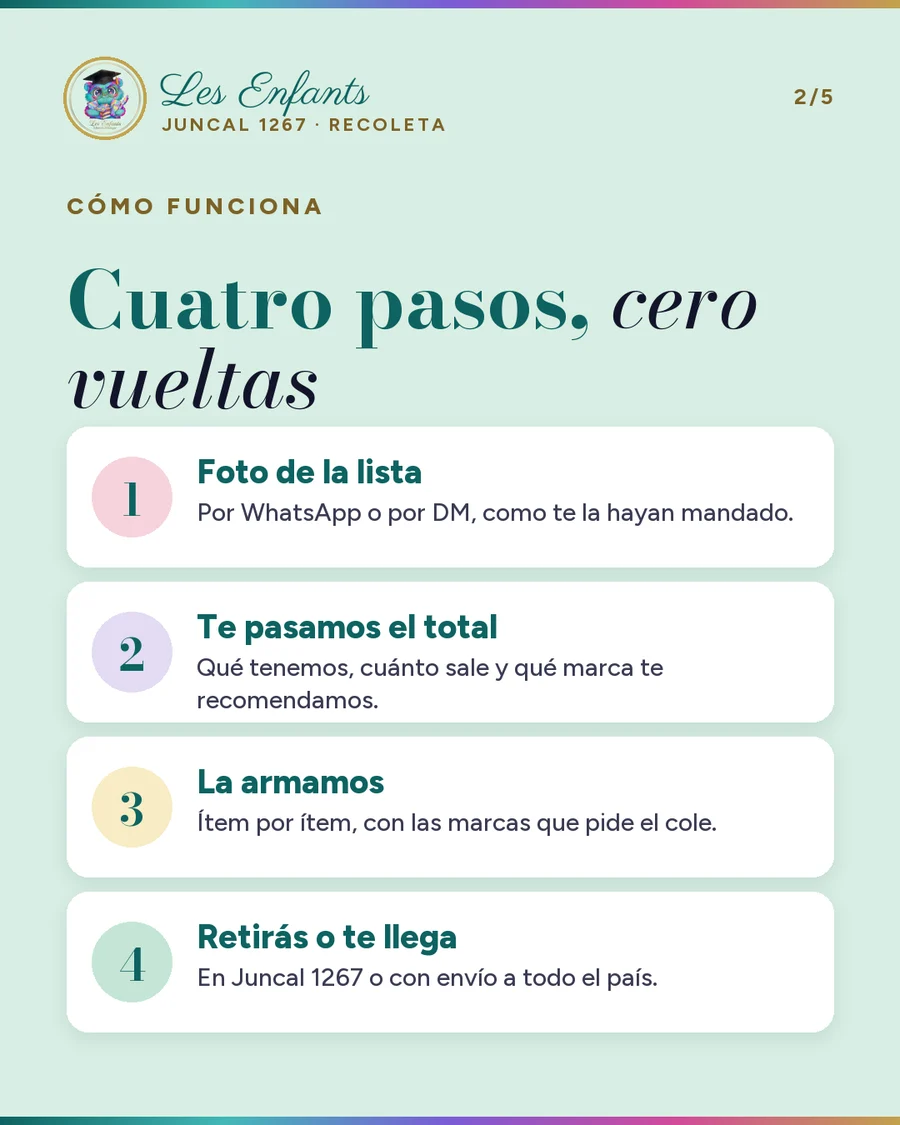
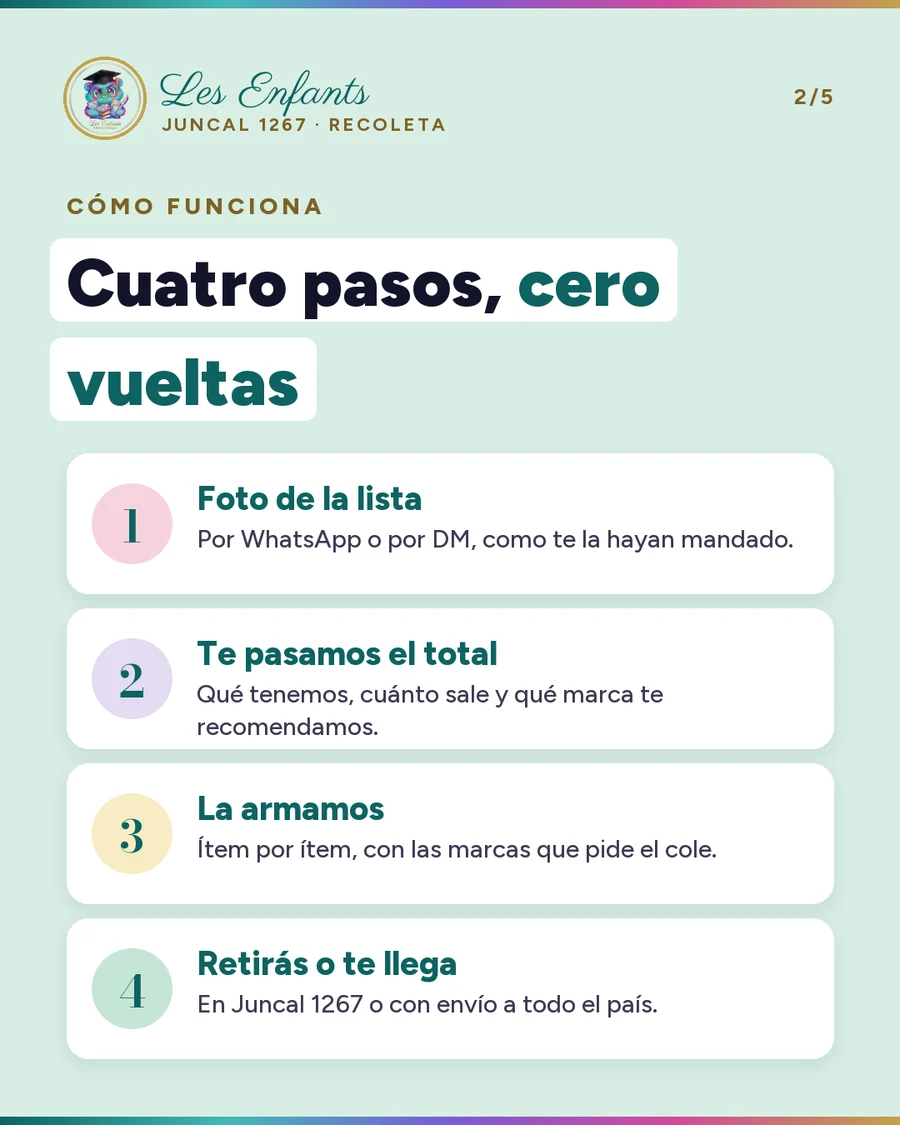
Carruseles nuevos: tapa con foto y título grande, una foto por placa, extra de vacaciones

Changed region(s): [[0.0311, 0.1867, 0.9333, 0.9644]]

diff --git a/index.html b/index.html
@@ -132,7 +132,7 @@ footer p+p{margin-top:8px}
         <p class="eyebrow">Instagram, TikTok y Google · 9 al 22 de noviembre</p>
         <h1>Lo que se publica <em>cada día</em></h1>
         <p class="lead">Así se vería tu cuenta las próximas dos semanas, pieza por pieza, con el texto y lo que hay que grabar. Es una primera versión: <b>nada se publica sin que lo apruebes</b> y todo se puede cambiar.</p>
-        <div class="stats"><span>5 reels</span><span>4 carruseles</span><span>8 historias</span><span>1 en Google</span></div>
+        <div class="stats"><span>5 reels</span><span>4 carruseles + 1 extra</span><span>8 historias</span><span>1 en Google</span></div>
       </div>
       <div class="oct" aria-hidden="true"><span>Alto nivel en planificación</span></div>
     </div>
@@ -191,17 +191,17 @@ Juncal 1267, Recoleta.
 <p class="sticker"><b>En la app:</b> Encuesta: &quot;Sí, ya llegó&quot; / &quot;Todavía no&quot;. A los que contestan &quot;sí&quot; les escribís por privado: &quot;Mandámela y te la armo&quot;.</p>
 </article></section>
 <section class="dia"><h3>Miércoles 11</h3><article class="pieza k-carrusel">
-<header><span class="tag">Carrusel</span><h4>Elegí tu agenda 2027 (20% OFF todo noviembre)</h4></header>
-<div class="gal multi"><a class="shot feed" href="quincena/mie11-c1.webp" target="_blank" rel="noopener"><img src="quincena/mie11-c1.webp" alt="Elegí tu agenda 2027 (20% OFF todo noviembre) (1/6)" width="900" height="1125" loading="lazy" decoding="async"></a><a class="shot feed" href="quincena/mie11-c2.webp" target="_blank" rel="noopener"><img src="quincena/mie11-c2.webp" alt="Elegí tu agenda 2027 (20% OFF todo noviembre) (2/6)" width="900" height="1125" loading="lazy" decoding="async"></a><a class="shot feed" href="quincena/mie11-c3.webp" target="_blank" rel="noopener"><img src="quincena/mie11-c3.webp" alt="Elegí tu agenda 2027 (20% OFF todo noviembre) (3/6)" width="900" height="1125" loading="lazy" decoding="async"></a><a class="shot feed" href="quincena/mie11-c4.webp" target="_blank" rel="noopener"><img src="quincena/mie11-c4.webp" alt="Elegí tu agenda 2027 (20% OFF todo noviembre) (4/6)" width="900" height="1125" loading="lazy" decoding="async"></a><a class="shot feed" href="quincena/mie11-c5.webp" target="_blank" rel="noopener"><img src="quincena/mie11-c5.webp" alt="Elegí tu agenda 2027 (20% OFF todo noviembre) (5/6)" width="900" height="1125" loading="lazy" decoding="async"></a><a class="shot feed" href="quincena/mie11-c6.webp" target="_blank" rel="noopener"><img src="quincena/mie11-c6.webp" alt="Elegí tu agenda 2027 (20% OFF todo noviembre) (6/6)" width="900" height="1125" loading="lazy" decoding="async"></a></div>
+<header><span class="tag">Carrusel</span><h4>Tu 2027 ya tiene portada (20% OFF en agendas)</h4></header>
+<div class="gal multi"><a class="shot feed" href="quincena/mie11-c1.webp" target="_blank" rel="noopener"><img src="quincena/mie11-c1.webp" alt="Tu 2027 ya tiene portada (20% OFF en agendas) (1/5)" width="900" height="1125" loading="lazy" decoding="async"></a><a class="shot feed" href="quincena/mie11-c2.webp" target="_blank" rel="noopener"><img src="quincena/mie11-c2.webp" alt="Tu 2027 ya tiene portada (20% OFF en agendas) (2/5)" width="900" height="1125" loading="lazy" decoding="async"></a><a class="shot feed" href="quincena/mie11-c3.webp" target="_blank" rel="noopener"><img src="quincena/mie11-c3.webp" alt="Tu 2027 ya tiene portada (20% OFF en agendas) (3/5)" width="900" height="1125" loading="lazy" decoding="async"></a><a class="shot feed" href="quincena/mie11-c4.webp" target="_blank" rel="noopener"><img src="quincena/mie11-c4.webp" alt="Tu 2027 ya tiene portada (20% OFF en agendas) (4/5)" width="900" height="1125" loading="lazy" decoding="async"></a><a class="shot feed" href="quincena/mie11-c5.webp" target="_blank" rel="noopener"><img src="quincena/mie11-c5.webp" alt="Tu 2027 ya tiene portada (20% OFF en agendas) (5/5)" width="900" height="1125" loading="lazy" decoding="async"></a></div>
 <p class="hint">Deslizá para ver todas las placas →</p>
-<p class="why"><b>Por qué:</b> Usa el descuento que ya tenés en agendas y calendarios. Un carrusel que ayuda a elegir se guarda, y lo guardado se muestra a más gente.</p>
-<details><summary>Texto del posteo</summary><pre class="cap">Diaria o semanal, chica o grande, para la cartera o para la mochila del cole. Cuatro preguntas y ya sabés cuál es la tuya.
+<p class="why"><b>Por qué:</b> Usa el descuento que ya tenés en agendas y calendarios. Tapa con foto real y título grande: es lo que frena el dedo. Adentro, una foto por placa.</p>
+<details><summary>Texto del posteo</summary><pre class="cap">Llegaron las agendas 2027 y lo nuevo de Mooving. Todo noviembre tenés 20% OFF en agendas y calendarios de escritorio y de pared.
 
-Todo noviembre: 20% OFF en agendas y calendarios de escritorio y de pared.
+Diaria o semanal, chica o grande: vení y hojeala antes de llevarla.
 Juncal 1267 · WhatsApp 11 6567-5263
 
-#LesEnfants #LibreríaRecoleta #Recoleta #Agendas2027 #Organización</pre></details>
-<p class="need"><b>Lo que necesitamos de vos:</b> Nada: las placas ya están. Si querés, cambiamos la foto de tapa por una de tus agendas abiertas.</p>
+#LesEnfants #LibreríaRecoleta #Recoleta #Agendas2027 #Mooving</pre></details>
+<p class="need"><b>Lo que necesitamos de vos:</b> Confirmar que la Mooving &quot;Grow your way&quot; es de 2027 (y si es agenda o carpeta). Si sacás fotos de 2 o 3 agendas abiertas, suman placas.</p>
 </article></section>
 <section class="dia"><h3>Jueves 12</h3><article class="pieza k-reel">
 <header><span class="tag">Reel</span><h4>¿Vale la pena? #1 · La valija de 60 marcadores AE</h4></header>
@@ -227,10 +227,10 @@ WhatsApp 11 6567-5263
 <p class="sticker"><b>En la app:</b> Caja de preguntas: &quot;¿Te lo separamos?&quot;. Mejor todavía si subís un video tuyo apretándolo.</p>
 </article></section>
 <section class="dia"><h3>Sábado 14</h3><article class="pieza k-carrusel">
-<header><span class="tag">Carrusel</span><h4>Cinco regalos para la seño</h4></header>
-<div class="gal multi"><a class="shot feed" href="quincena/sab14-c1.webp" target="_blank" rel="noopener"><img src="quincena/sab14-c1.webp" alt="Cinco regalos para la seño (1/7)" width="900" height="1125" loading="lazy" decoding="async"></a><a class="shot feed" href="quincena/sab14-c2.webp" target="_blank" rel="noopener"><img src="quincena/sab14-c2.webp" alt="Cinco regalos para la seño (2/7)" width="900" height="1125" loading="lazy" decoding="async"></a><a class="shot feed" href="quincena/sab14-c3.webp" target="_blank" rel="noopener"><img src="quincena/sab14-c3.webp" alt="Cinco regalos para la seño (3/7)" width="900" height="1125" loading="lazy" decoding="async"></a><a class="shot feed" href="quincena/sab14-c4.webp" target="_blank" rel="noopener"><img src="quincena/sab14-c4.webp" alt="Cinco regalos para la seño (4/7)" width="900" height="1125" loading="lazy" decoding="async"></a><a class="shot feed" href="quincena/sab14-c5.webp" target="_blank" rel="noopener"><img src="quincena/sab14-c5.webp" alt="Cinco regalos para la seño (5/7)" width="900" height="1125" loading="lazy" decoding="async"></a><a class="shot feed" href="quincena/sab14-c6.webp" target="_blank" rel="noopener"><img src="quincena/sab14-c6.webp" alt="Cinco regalos para la seño (6/7)" width="900" height="1125" loading="lazy" decoding="async"></a><a class="shot feed" href="quincena/sab14-c7.webp" target="_blank" rel="noopener"><img src="quincena/sab14-c7.webp" alt="Cinco regalos para la seño (7/7)" width="900" height="1125" loading="lazy" decoding="async"></a></div>
+<header><span class="tag">Carrusel</span><h4>Lo que la seño de verdad quiere (y no es otra taza)</h4></header>
+<div class="gal multi"><a class="shot feed" href="quincena/sab14-c1.webp" target="_blank" rel="noopener"><img src="quincena/sab14-c1.webp" alt="Lo que la seño de verdad quiere (y no es otra taza) (1/7)" width="900" height="1125" loading="lazy" decoding="async"></a><a class="shot feed" href="quincena/sab14-c2.webp" target="_blank" rel="noopener"><img src="quincena/sab14-c2.webp" alt="Lo que la seño de verdad quiere (y no es otra taza) (2/7)" width="900" height="1125" loading="lazy" decoding="async"></a><a class="shot feed" href="quincena/sab14-c3.webp" target="_blank" rel="noopener"><img src="quincena/sab14-c3.webp" alt="Lo que la seño de verdad quiere (y no es otra taza) (3/7)" width="900" height="1125" loading="lazy" decoding="async"></a><a class="shot feed" href="quincena/sab14-c4.webp" target="_blank" rel="noopener"><img src="quincena/sab14-c4.webp" alt="Lo que la seño de verdad quiere (y no es otra taza) (4/7)" width="900" height="1125" loading="lazy" decoding="async"></a><a class="shot feed" href="quincena/sab14-c5.webp" target="_blank" rel="noopener"><img src="quincena/sab14-c5.webp" alt="Lo que la seño de verdad quiere (y no es otra taza) (5/7)" width="900" height="1125" loading="lazy" decoding="async"></a><a class="shot feed" href="quincena/sab14-c6.webp" target="_blank" rel="noopener"><img src="quincena/sab14-c6.webp" alt="Lo que la seño de verdad quiere (y no es otra taza) (6/7)" width="900" height="1125" loading="lazy" decoding="async"></a><a class="shot feed" href="quincena/sab14-c7.webp" target="_blank" rel="noopener"><img src="quincena/sab14-c7.webp" alt="Lo que la seño de verdad quiere (y no es otra taza) (7/7)" width="900" height="1125" loading="lazy" decoding="async"></a></div>
 <p class="hint">Deslizá para ver todas las placas →</p>
-<p class="why"><b>Por qué:</b> Faltan tres semanas para que terminen las clases. Lo publicamos ahora para que lo guarden y vuelvan.</p>
+<p class="why"><b>Por qué:</b> Faltan tres semanas para que terminen las clases. El gancho de la tapa hace sonreír a cualquier mamá: lo comparte en el grupo del grado.</p>
 <details><summary>Texto del posteo</summary><pre class="cap">Cinco regalos para la seño, que se usan en el aula y en casa. Del set de Hello Kitty para la de jardín a la lapicera de la Selección para la de educación física.
 
 Guardalo para diciembre. Los precios te los pasamos por mensaje: 11 6567-5263.
@@ -311,16 +311,18 @@ Juncal 1267, Recoleta.
 <p class="need"><b>A confirmar:</b> Confirmar si el lunes 23 cerrás.</p>
 </article></section>
 <section class="dia"><h3>Sábado 21</h3><article class="pieza k-carrusel">
-<header><span class="tag">Carrusel</span><h4>Amigo invisible: cinco ideas que no fallan</h4></header>
-<div class="gal multi"><a class="shot feed" href="quincena/sab21-c1.webp" target="_blank" rel="noopener"><img src="quincena/sab21-c1.webp" alt="Amigo invisible: cinco ideas que no fallan (1/7)" width="900" height="1125" loading="lazy" decoding="async"></a><a class="shot feed" href="quincena/sab21-c2.webp" target="_blank" rel="noopener"><img src="quincena/sab21-c2.webp" alt="Amigo invisible: cinco ideas que no fallan (2/7)" width="900" height="1125" loading="lazy" decoding="async"></a><a class="shot feed" href="quincena/sab21-c3.webp" target="_blank" rel="noopener"><img src="quincena/sab21-c3.webp" alt="Amigo invisible: cinco ideas que no fallan (3/7)" width="900" height="1125" loading="lazy" decoding="async"></a><a class="shot feed" href="quincena/sab21-c4.webp" target="_blank" rel="noopener"><img src="quincena/sab21-c4.webp" alt="Amigo invisible: cinco ideas que no fallan (4/7)" width="900" height="1125" loading="lazy" decoding="async"></a><a class="shot feed" href="quincena/sab21-c5.webp" target="_blank" rel="noopener"><img src="quincena/sab21-c5.webp" alt="Amigo invisible: cinco ideas que no fallan (5/7)" width="900" height="1125" loading="lazy" decoding="async"></a><a class="shot feed" href="quincena/sab21-c6.webp" target="_blank" rel="noopener"><img src="quincena/sab21-c6.webp" alt="Amigo invisible: cinco ideas que no fallan (6/7)" width="900" height="1125" loading="lazy" decoding="async"></a><a class="shot feed" href="quincena/sab21-c7.webp" target="_blank" rel="noopener"><img src="quincena/sab21-c7.webp" alt="Amigo invisible: cinco ideas que no fallan (7/7)" width="900" height="1125" loading="lazy" decoding="async"></a></div>
+<header><span class="tag">Carrusel</span><h4>5 cosas que tus hijos vieron en TikTok (y tenemos acá)</h4></header>
+<div class="gal multi"><a class="shot feed" href="quincena/sab21-c1.webp" target="_blank" rel="noopener"><img src="quincena/sab21-c1.webp" alt="5 cosas que tus hijos vieron en TikTok (y tenemos acá) (1/7)" width="900" height="1125" loading="lazy" decoding="async"></a><a class="shot feed" href="quincena/sab21-c2.webp" target="_blank" rel="noopener"><img src="quincena/sab21-c2.webp" alt="5 cosas que tus hijos vieron en TikTok (y tenemos acá) (2/7)" width="900" height="1125" loading="lazy" decoding="async"></a><a class="shot feed" href="quincena/sab21-c3.webp" target="_blank" rel="noopener"><img src="quincena/sab21-c3.webp" alt="5 cosas que tus hijos vieron en TikTok (y tenemos acá) (3/7)" width="900" height="1125" loading="lazy" decoding="async"></a><a class="shot feed" href="quincena/sab21-c4.webp" target="_blank" rel="noopener"><img src="quincena/sab21-c4.webp" alt="5 cosas que tus hijos vieron en TikTok (y tenemos acá) (4/7)" width="900" height="1125" loading="lazy" decoding="async"></a><a class="shot feed" href="quincena/sab21-c5.webp" target="_blank" rel="noopener"><img src="quincena/sab21-c5.webp" alt="5 cosas que tus hijos vieron en TikTok (y tenemos acá) (5/7)" width="900" height="1125" loading="lazy" decoding="async"></a><a class="shot feed" href="quincena/sab21-c6.webp" target="_blank" rel="noopener"><img src="quincena/sab21-c6.webp" alt="5 cosas que tus hijos vieron en TikTok (y tenemos acá) (6/7)" width="900" height="1125" loading="lazy" decoding="async"></a><a class="shot feed" href="quincena/sab21-c7.webp" target="_blank" rel="noopener"><img src="quincena/sab21-c7.webp" alt="5 cosas que tus hijos vieron en TikTok (y tenemos acá) (7/7)" width="900" height="1125" loading="lazy" decoding="async"></a></div>
 <p class="hint">Deslizá para ver todas las placas →</p>
-<p class="why"><b>Por qué:</b> Diciembre es temporada de amigo invisible en colegios y oficinas. Con productos que ya tenés.</p>
-<details><summary>Texto del posteo</summary><pre class="cap">Cinco ideas para el amigo invisible del cole o de la oficina: del Nee Doh para el estresado a los stampers para la que decora todo.
+<p class="why"><b>Por qué:</b> Los chicos ven estos productos en TikTok y se los piden a los padres. Le hablamos al padre que no sabe dónde conseguirlos. Cierra con &quot;Comentá QUIERO&quot;: cada comentario es una consulta y le dice a Instagram que lo muestre más.</p>
+<details><summary>Texto del posteo</summary><pre class="cap">Si tu hijo te habló de alguno de estos, ya sabés dónde están: Juncal 1267.
 
-Decinos cuánto querés gastar y te armamos tres opciones: 11 6567-5263.
+Nee Doh, marcadores al alcohol, kit de mostacillas, stampers y el set de trenzas. Los cinco entran en el amigo invisible del cole.
 
-#LesEnfants #LibreríaRecoleta #Recoleta #AmigoInvisible</pre></details>
-<p class="need"><b>Lo que necesitamos de vos:</b> Pasarnos los precios para ponerlos en las placas.</p>
+Comentá QUIERO y te pasamos los precios.
+
+#LesEnfants #LibreríaRecoleta #Recoleta #TikTokMadeMeBuyIt #AmigoInvisible</pre></details>
+<p class="need"><b>Lo que necesitamos de vos:</b> Pasarnos los precios y confirmar que hay stock de los cinco. Contestar cada &quot;QUIERO&quot; por privado (el bot te deja el mensaje).</p>
 </article>
 <article class="pieza k-google">
 <header><span class="tag">Google</span><h4>Publicación en Google Maps</h4></header>
@@ -328,7 +330,19 @@ Decinos cuánto querés gastar y te armamos tres opciones: 11 6567-5263.
 <p class="sticker"><b>En la app:</b> Se publica en tu ficha de Google la tapa de &quot;Mandanos la lista&quot;, con el botón &quot;Más información&quot; al WhatsApp.</p>
 <p class="need"><b>A confirmar:</b> La gente que busca &quot;librería Recoleta&quot; en Google lo ve.</p>
 </article></section>
-<section class="dia"><h3>Domingo 22<span class="extra">Descanso</span></h3><p class="rest">Sin publicaciones. Las historias de la semana se repiten solas en las destacadas.</p></section></section>
+<section class="dia"><h3>Domingo 22<span class="extra">Descanso</span></h3><p class="rest">Sin publicaciones. Las historias de la semana se repiten solas en las destacadas.</p></section></section><section class="semana"><div class="sem-head"><div><p class="eyebrow">Extra</p><h2>Uno <em>de regalo</em></h2></div><div class="oct" aria-hidden="true"><span>Cero pantallas</span></div></div><section class="dia"><h3>De regalo<span class="extra">Para la próxima quincena, o para cambiar por alguno</span></h3><article class="pieza k-carrusel">
+<header><span class="tag">Carrusel</span><h4>5 ideas para que no te pidan la tablet en vacaciones</h4></header>
+<div class="gal multi"><a class="shot feed" href="quincena/extra-c1.webp" target="_blank" rel="noopener"><img src="quincena/extra-c1.webp" alt="5 ideas para que no te pidan la tablet en vacaciones (1/7)" width="900" height="1125" loading="lazy" decoding="async"></a><a class="shot feed" href="quincena/extra-c2.webp" target="_blank" rel="noopener"><img src="quincena/extra-c2.webp" alt="5 ideas para que no te pidan la tablet en vacaciones (2/7)" width="900" height="1125" loading="lazy" decoding="async"></a><a class="shot feed" href="quincena/extra-c3.webp" target="_blank" rel="noopener"><img src="quincena/extra-c3.webp" alt="5 ideas para que no te pidan la tablet en vacaciones (3/7)" width="900" height="1125" loading="lazy" decoding="async"></a><a class="shot feed" href="quincena/extra-c4.webp" target="_blank" rel="noopener"><img src="quincena/extra-c4.webp" alt="5 ideas para que no te pidan la tablet en vacaciones (4/7)" width="900" height="1125" loading="lazy" decoding="async"></a><a class="shot feed" href="quincena/extra-c5.webp" target="_blank" rel="noopener"><img src="quincena/extra-c5.webp" alt="5 ideas para que no te pidan la tablet en vacaciones (5/7)" width="900" height="1125" loading="lazy" decoding="async"></a><a class="shot feed" href="quincena/extra-c6.webp" target="_blank" rel="noopener"><img src="quincena/extra-c6.webp" alt="5 ideas para que no te pidan la tablet en vacaciones (6/7)" width="900" height="1125" loading="lazy" decoding="async"></a><a class="shot feed" href="quincena/extra-c7.webp" target="_blank" rel="noopener"><img src="quincena/extra-c7.webp" alt="5 ideas para que no te pidan la tablet en vacaciones (7/7)" width="900" height="1125" loading="lazy" decoding="async"></a></div>
+<p class="hint">Deslizá para ver todas las placas →</p>
+<p class="why"><b>Por qué:</b> En diciembre empiezan las vacaciones y todos los padres tienen el mismo problema. Productos que ya tenés en el local, con un gancho que se comparte.</p>
+<details><summary>Texto del posteo</summary><pre class="cap">Cinco ideas para que las vacaciones no sean solo pantalla: batalla naval, masas, pizarra magnética, revistas para pintar y cartas con juegos.
+
+Decinos la edad de los chicos y cuánto querés gastar, y te armamos tres opciones: 11 6567-5263.
+Envíos a la costa y a todo el país.
+
+#LesEnfants #LibreríaRecoleta #Recoleta #Vacaciones #JuegosSinPantalla</pre></details>
+<p class="need"><b>Lo que necesitamos de vos:</b> Pasarnos los precios.</p>
+</article></section></section>
 
   <section class="semana">
     <p class="eyebrow">Las dos apuestas</p>
